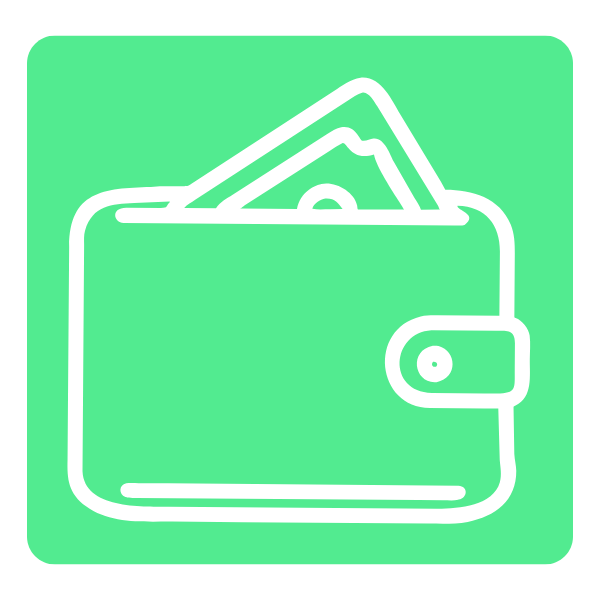
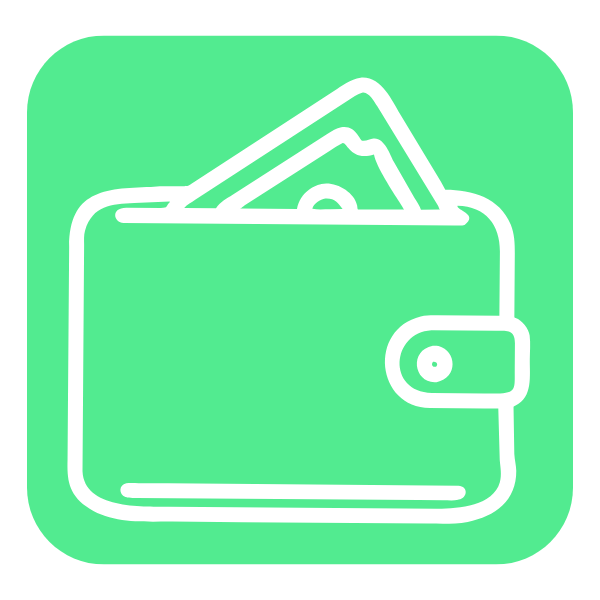
added green image for when wallet connected

diff --git a/lib/abstracted_components/wallet_appbar.dart b/lib/abstracted_components/wallet_appbar.dart
@@ -8,6 +8,7 @@ class wallet_appbar extends StatefulWidget {
 
 class _wallet_appbarState extends State<wallet_appbar> {
   GlobalKey _gestureKey = GlobalKey();
+  String wallet_icon = 'assets/wallet_icon.png';
 
   void _showDropdownMenu() {
     final RenderBox renderBox = _gestureKey.currentContext!.findRenderObject() as RenderBox;
@@ -51,14 +52,28 @@ class _wallet_appbarState extends State<wallet_appbar> {
       ],
     ).then((value) async {
       if (value != null) {
+
+        bool result = false;
+
         // Handle the selection here (navigation or actions)
         print('$value selected');
 
         if(value == 'SubWallet')
-          await connectToSubWallet();
+          result = await connectToSubWallet();
 
         if(value == 'Talisman')
-          await connectToTalisman();
+          result = await connectToTalisman();
+
+        if(result){
+          setState(() {
+            wallet_icon = 'assets/wallet_green.png';
+          });
+        }
+        else{
+          setState(() {
+            wallet_icon = 'assets/wallet_icon.png';
+          });
+        }
       }
     });
   }
@@ -72,7 +87,7 @@ class _wallet_appbarState extends State<wallet_appbar> {
         padding: EdgeInsets.all(8),
         //color: Colors.blue,
         child: Image.asset(
-          'assets/wallet_icon.png',
+          wallet_icon,
           height: 48,
         ),
       ),
@@ -80,20 +95,28 @@ class _wallet_appbarState extends State<wallet_appbar> {
   }
 }
 
-Future<void> connectToSubWallet() async {
+Future<bool> connectToSubWallet() async {
   try {
     var result = js.context.callMethod('connectToSubWallet');
     print("Connected to SubWallet: $result");
+
+    return true;
   } catch (e) {
     print("Error connecting to SubWallet: $e");
+
+    return false;
   }
 }
 
-Future<void> connectToTalisman() async {
+Future<bool> connectToTalisman() async {
   try {
     var result = js.context.callMethod('connectToTalisman');
     print("Connected to Talisman: $result");
+
+    return true;
   } catch (e) {
     print("Error connecting to Talisman: $e");
+
+    return false;
   }
 }
